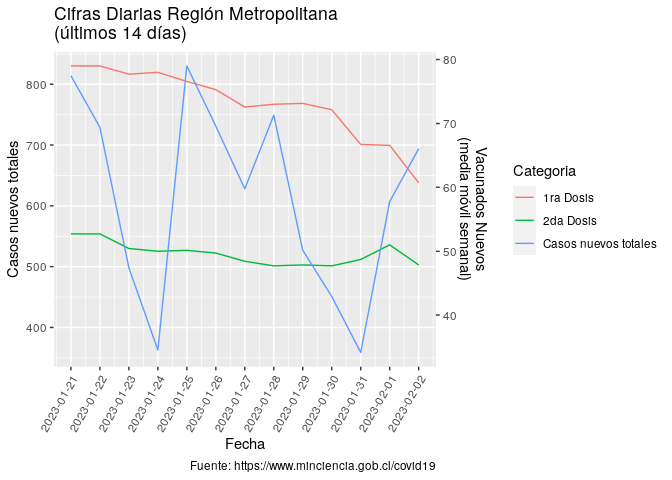
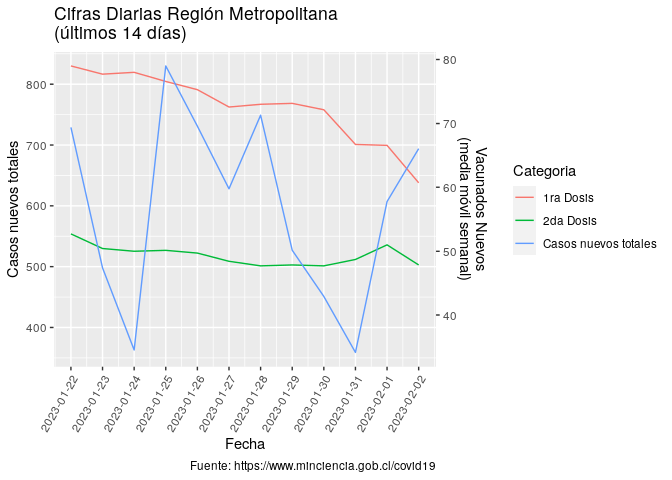
Re-build Rmarkdown files

diff --git a/README.md b/README.md
@@ -3,7 +3,7 @@
 
 Ejemplo de uso de total\_casos de COVID recopilados por el Ministerio de
 Ciencia de Chile <https://www.minciencia.gob.cl/covid19>. Última
-actualización: 2023-02-03
+actualización: 2023-02-04
 
 ## Visualización desde el comienzo de la pandemia
 
